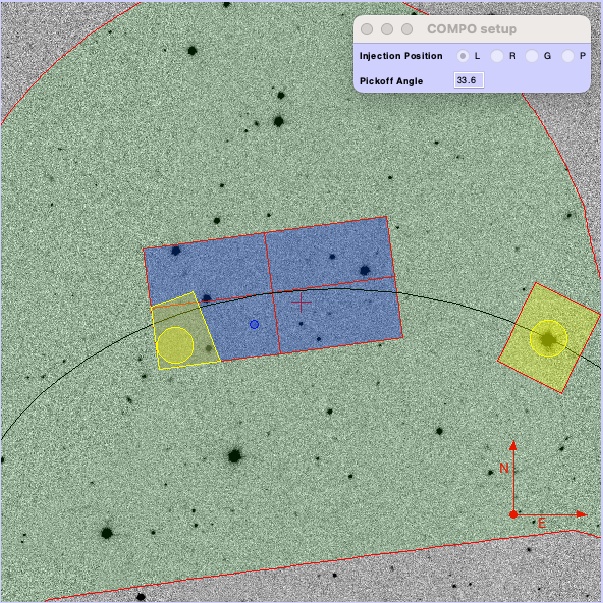
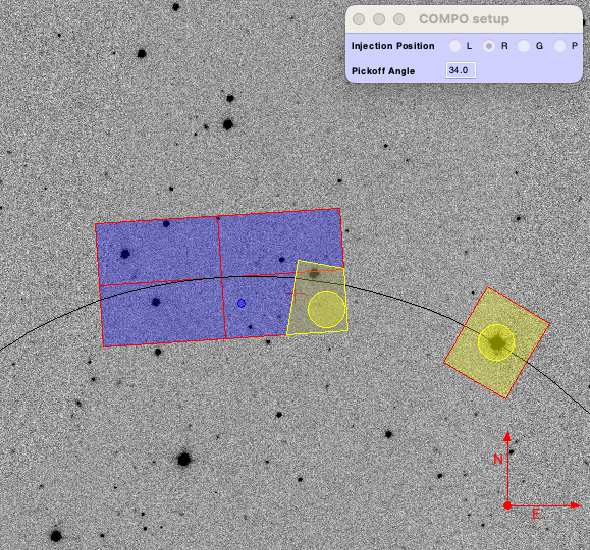
no need for mickey mouse compo free region

diff --git a/hcam_finder/shapes.py b/hcam_finder/shapes.py
@@ -51,7 +51,7 @@ class CompoPatrolArc(Path):
         image : `~ginga.AstroImage`
               image to plot Window on
         """
-        # assume patrol arc of 90 degrees
+        
         theta = np.linspace(-65, 65, 40)*u.deg
 
         # circular arc, swapping dec sign
@@ -71,24 +71,3 @@ class CompoPatrolArc(Path):
         super(CompoPatrolArc, self).__init__(self.points, **params)
         self.name = params.pop('name', 'patrol_arc')
 
-
-class CompoFreeRegion(Polygon):
-    def __init__(self, ra_ctr_deg, dec_ctr_deg, image, **params):
-        """
-        Shape for drawing unvignetted area available to patrol arm
-
-        Parameters
-        ----------
-        ra_ctr_deg, dec_ctr_deg : float
-              Tel pointing center (deg)
-        image : `~ginga.AstroImage`
-              image to plot Window on
-        """
-        guider_file = pkg_resources.resource_filename('hcam_finder',
-                                                      'data/guider_hole_arcseconds.txt')
-        points = np.loadtxt(guider_file) / 36000
-        points_wcs = [wcs.add_offset_radec(ra_ctr_deg, dec_ctr_deg, p[0], p[1]) for p in points]
-        self.points = [image.radectopix(ra, dec) for (ra, dec) in points_wcs]
-        self.bezier = get_bezier(30, self.points)
-        super(CompoFreeRegion, self).__init__(self.bezier, **params)
-        self.name = params.pop('name', 'compo_free_region')

diff --git a/hcam_finder/hcam_finder.py b/hcam_finder/hcam_finder.py
@@ -19,7 +19,7 @@ from hcam_widgets.compo.utils import (
 from hcam_widgets.tkutils import get_root
 
 from .finders import FovSetter
-from .shapes import CompoPatrolArc, CompoFreeRegion
+from .shapes import CompoPatrolArc
 
 if not six.PY3:
     import tkFileDialog as filedialog
@@ -242,15 +242,6 @@ class HCAMFovSetter(FovSetter):
             linestyle="dash",
             name="COMPO_Arc",
         )
-        compo_free = CompoFreeRegion(
-            chip_ctr_ra,
-            chip_ctr_dec,
-            image,
-            fill=True,
-            fillcolor="green",
-            fillalpha=0.1,
-            name="compo_free_region",
-        )
 
         compo_pickoff = PickoffArm().to_ginga_object(
             compo_angle * u.deg,
@@ -272,7 +263,7 @@ class HCAMFovSetter(FovSetter):
             name="COMPO_injector",
         )
 
-        obl = [compo_arc, compo_free, compo_pickoff, compo_injector]
+        obl = [compo_arc, compo_pickoff, compo_injector]
         obj = CompoundObject(*obl)
         obj.editable = True
         return obj

diff --git a/docs/hipercam.rst b/docs/hipercam.rst
@@ -304,8 +304,7 @@ as shown below.
 
 The pickoff and injection arms are shown in yellow. The rectangular region shows the vignetted
 area, and the circle shows the field of view of the arms. The black line shows the path the 
-pickoff arm will take as it rotates. The green shaded region shows the area of sky that is
-accessible. 
+pickoff arm will take as it rotates. 
 
 By :ref:`changing the telescope PA <manip_fov_h>` and pickoff arm angle, you can place your 
 desired comparison star within the field of view of the pickoff arm. The position of the 
